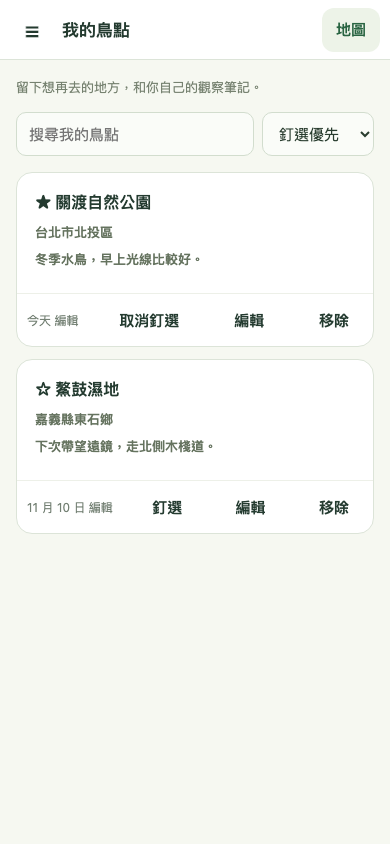
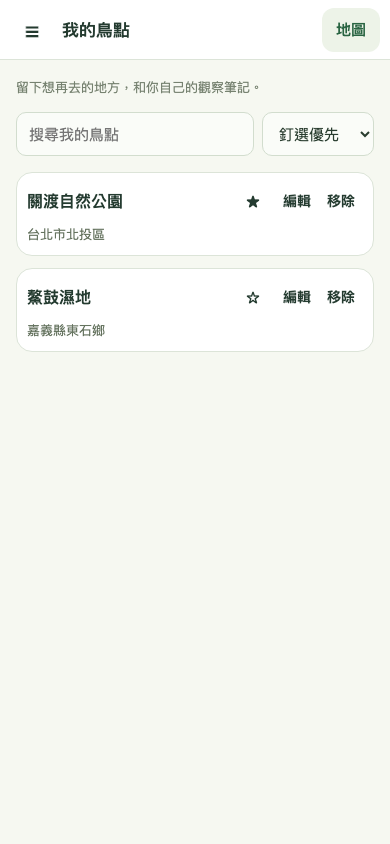
docs(search): simplify saved-place prototype rows

diff --git a/docs/mockups/search-menu-prototype/index.html b/docs/mockups/search-menu-prototype/index.html
@@ -451,33 +451,43 @@
         color: #65735f;
       }
       .saved-card {
-        padding: 0;
+        padding: 6px 10px 10px;
         overflow: hidden;
+      }
+      .saved-heading {
+        display: flex;
+        align-items: center;
+        gap: 4px;
       }
       .saved-card .open-saved {
         text-align: left;
         display: block;
-        width: 100%;
-        padding: 18px;
-        min-height: 100px;
+        flex: 1;
+        min-width: 0;
+        padding: 8px 0;
       }
       .saved-card h2 {
-        margin: 0 0 8px;
+        margin: 0;
+        overflow: hidden;
+        text-overflow: ellipsis;
+        white-space: nowrap;
       }
       .saved-card p {
-        margin: 5px 0;
+        margin: 0;
         font-size: 13px;
+        overflow: hidden;
+        text-overflow: ellipsis;
+        white-space: nowrap;
       }
       .saved-actions {
         display: flex;
         align-items: center;
-        justify-content: space-between;
-        border-top: 1px solid #edf0e8;
-        padding: 4px 10px;
+        flex-shrink: 0;
       }
-      .saved-actions span {
-        font-size: 12px;
-        color: var(--muted);
+      .saved-actions button {
+        min-width: 44px;
+        padding: 8px 6px;
+        font-size: 14px;
       }
       .status {
         display: inline-flex;
@@ -795,7 +805,6 @@
           location: "台北市北投區",
           note: "冬季水鳥，早上光線比較好。",
           pinned: true,
-          date: "今天",
         },
         {
           id: 1,
@@ -803,7 +812,6 @@
           location: "嘉義縣東石鄉",
           note: "下次帶望遠鏡，走北側木棧道。",
           pinned: false,
-          date: "11 月 10 日",
         },
       ];
       let selectedSaved = 0;
@@ -891,7 +899,7 @@
           ? items
               .map(
                 (b) =>
-                  `<article class="card saved-card"><button class="open-saved" data-id="${b.id}" data-action="saved-detail"><h2>${b.pinned ? "★" : "☆"} ${esc(b.name)}</h2><p>${b.location}</p><p>${esc(b.note)}</p></button><div class="saved-actions"><span>${b.date} 編輯</span><button data-id="${b.id}" data-action="pin-saved">${b.pinned ? "取消釘選" : "釘選"}</button><button data-id="${b.id}" data-action="edit">編輯</button><button data-id="${b.id}" data-action="remove-saved">移除</button></div></article>`,
+                  `<article class="card saved-card"><div class="saved-heading"><button class="open-saved" data-id="${b.id}" data-action="saved-detail" title="${esc(b.name)}"><h2>${esc(b.name)}</h2></button><div class="saved-actions"><button data-id="${b.id}" data-action="pin-saved" aria-label="${b.pinned ? "取消釘選" : "釘選"}${esc(b.name)}" aria-pressed="${b.pinned}">${b.pinned ? "★" : "☆"}</button><button data-id="${b.id}" data-action="edit">編輯</button><button data-id="${b.id}" data-action="remove-saved">移除</button></div></div><p>${esc(b.location)}</p></article>`,
               )
               .join("")
           : '<p class="muted">沒有符合的收藏鳥點。</p>';
@@ -1001,7 +1009,6 @@
           let item = savedPlaces.find((x) => x.id === selectedSaved);
           item.note = document.getElementById("edit-note").value;
           item.name = document.getElementById("edit-name").value;
-          item.date = "今天";
           editDirty = false;
           dialog = "";
           page = "saved";

diff --git a/docs/mockups/search-menu-prototype/README.md b/docs/mockups/search-menu-prototype/README.md
@@ -4,6 +4,12 @@ Issue #61 compares two compact navigation structures for the browser Search App.
 
 Run from this worktree with `python3 -m http.server 7309 --bind 127.0.0.1 --directory docs/mockups/search-menu-prototype`, then open http://127.0.0.1:7309/. No dependencies, build, API requests, real credentials, browser storage, or map tiles are used. All state resets on reload. The local SVG map and observations are labeled demonstrations.
 
+## Scope of the proposed change
+
+The proposal is limited to browser Search App navigation on mobile and wide screens, moving API key management into settings, and compacting My places. In the revised My places list, each name shares one row with pin, edit, and remove controls. The location is a small second line; editing dates and note previews are omitted. Full notes remain in place detail and editing. Long names truncate without shrinking the 44 px action targets.
+
+These navigation and layout choices are still subject to user approval. Production code has not changed. Implementation should adapt the existing Search App components and visual style, retaining the existing Leaflet map, result rows, real data, queries, notes, and storage behavior. The schematic map, sample records, colors, and illustrative page styling are not a specification for replacing the whole app. The native Electron Desktop App is outside this proposal and will not change through this ticket.
+
 ## Compare
 
 - `?variant=A` is recommended. A 60 px toolbar has Menu, a context title, and Search or Modify. The main menu exposes 搜尋鳥種, 搜尋鳥點, 我的鳥點, then 設定與說明. Choosing a search destination opens its focused bottom sheet. Opening a function menu does not erase conditions. Before any search, only the compact toolbar and map are shown. There is no empty results sheet or marketing panel. A half sheet appears only for search results or selected saved-place detail.
@@ -18,7 +24,7 @@ The main destinations answer where to go. Search or Modify answers how to change
 
 Species search contains a name and editable 1–30 integer days. Bird-spot search contains only a name and searches public hotspots and personal saved places. No geographical filter is introduced. Each search mode retains its own committed conditions in memory. Selecting a mode opens those conditions. Submit commits the draft and shows sample results. Cancel, Escape, and a floating sheet backdrop discard the draft and retain the prior query/results. Opening and closing the menu does not change conditions. The prototype uses a fixed illustrative result set rather than claiming actual search results.
 
-My places is its own page with filtering, pinned/recent/name sorting, pin toggles, and removal. A saved item opens map detail, and that detail returns directly to My places. Edit is a child page with Back, Cancel, and Save. A changed field followed by Back or Cancel demonstrates a three-choice guard (save and continue, discard, continue editing). Save changes the selected demo item's name and note for the current session.
+My places is its own page with filtering, pinned/recent/name sorting, pin toggles, and removal. Compact rows put each name and its actions together, without editing dates. Selecting the name opens map detail, and that detail returns directly to My places. Edit is a child page with Back, Cancel, and Save. A changed field followed by Back or Cancel demonstrates a three-choice guard (save and continue, discard, continue editing). Save changes the selected demo item's name and note for the current session.
 
 Settings returns to the page from which it opened. Only this page offers 移除 API key. Its confirmation states that favorites and notes remain. Removal changes a RAM-only status. The prototype never accepts or reveals an actual key. Production semantics would be this browser and origin, not a device-wide deletion. Favorites, notes, and storage explanation belong here too. API key replacement is the same boundary: changing the key must retain favorites and notes. The replacement setup form is deliberately outside this navigation prototype.
 
@@ -34,4 +40,6 @@ Clean-state screenshots also check `window.scrollY === 0` and toolbar top at zer
 
 ## Final design review
 
[2 lines of base64/hex data omitted]
+
+The compact My places revision passed independent headless review. Checks covered same-row 44 px actions and no overflow at 320, 390, 402, and 1440 px. At 320 px, a long renamed second item retained its own note, pin state, detail destination, and removal identity. Updated screenshots are `screenshots/A-saved-{320,390,402,1440}.png`.
